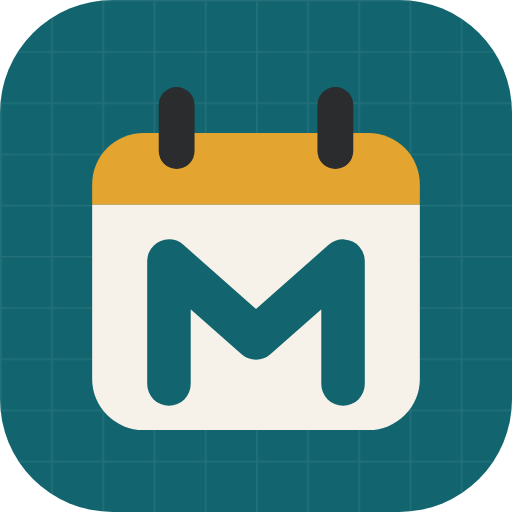
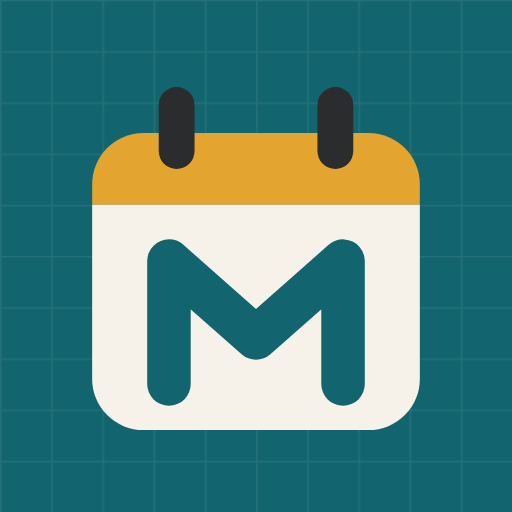
Icona dell'app piena fino ai bordi, senza fondo bianco o nero
Le icone «any» avevano gli angoli trasparenti: alcuni launcher Android le
rimpiccioliscono su un fondo bianco (tema chiaro) o nero (tema scuro).
Ora sono piene fino ai bordi, c'è anche la maschera a 192 px e lo sfondo
del manifest è petrolio come l'icona.

Claude-Session: https://claude.ai/code/session_01K3rj8YTW9iDx2XfBF9EUdJ

diff --git a/vite.config.ts b/vite.config.ts
@@ -23,14 +23,18 @@ export default defineConfig({
         lang: 'it',
         // Colore della barra di sistema in basso su Android (app installata): antracite come la barra delle schede.
         theme_color: '#2b2c2e',
-        background_color: '#2b2c2e',
+        // Sfondo petrolio come l'icona: se il telefono mette l'icona su un fondo, il fondo è dello stesso colore.
+        background_color: '#12656f',
         display: 'standalone',
         start_url: '/Mastercook-2.0/',
         scope: '/Mastercook-2.0/',
         icons: [
-          { src: 'icona-192.png?v=2', sizes: '192x192', type: 'image/png' },
-          { src: 'icona-512.png?v=2', sizes: '512x512', type: 'image/png' },
-          { src: 'icona-maschera-512.png?v=2', sizes: '512x512', type: 'image/png', purpose: 'maskable' },
+          // Icone piene fino ai bordi (niente angoli trasparenti): Android le ritaglia nella sua forma
+          // invece di rimpicciolirle su un fondo bianco o nero.
+          { src: 'icona-192.png?v=3', sizes: '192x192', type: 'image/png', purpose: 'any' },
+          { src: 'icona-512.png?v=3', sizes: '512x512', type: 'image/png', purpose: 'any' },
+          { src: 'icona-maschera-192.png?v=3', sizes: '192x192', type: 'image/png', purpose: 'maskable' },
+          { src: 'icona-maschera-512.png?v=3', sizes: '512x512', type: 'image/png', purpose: 'maskable' },
         ],
       },
       workbox: {
